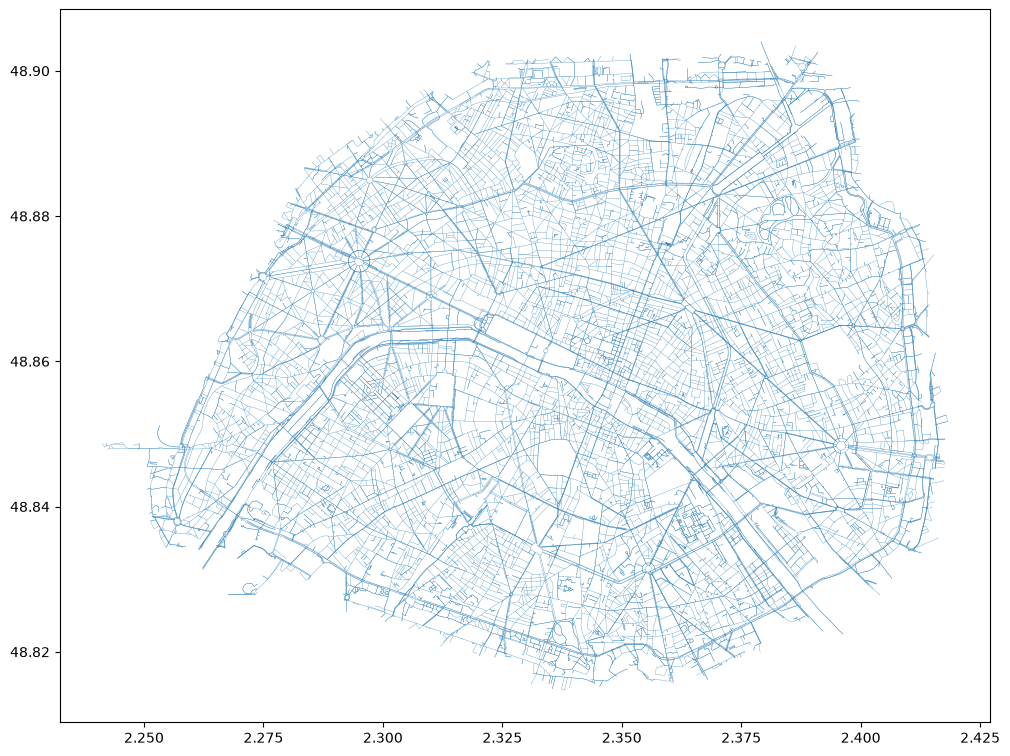
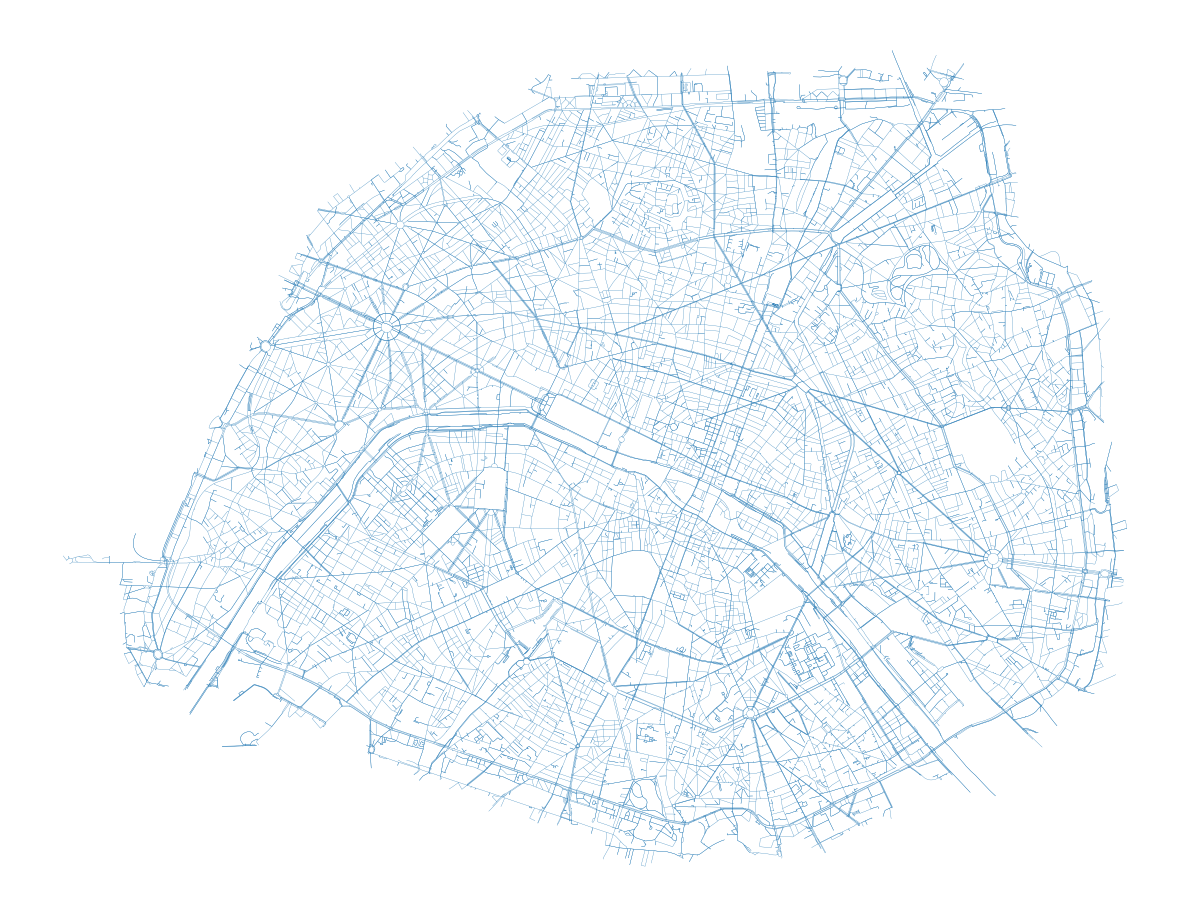
readme plus clair

diff --git a/main.py b/main.py
@@ -4,8 +4,12 @@ from data.connectors import tag_connectors
 
 
 def main():
+    print("Lancement de la pipeline des données")
+    print("Récupérer les voies cyclables de Paris via OSM")
     G = get_voirie()
+    print("Filtrer les petites impasses")
     G_propre = filter_impasses(G)
+    print("Détecter les tronçons de connection de voies")
     G_tagged, nodes_gdf, edges_gdf = tag_connectors(
         G_propre,
         connector_length_m=12,

diff --git a/src/data/voirie.py b/src/data/voirie.py
@@ -21,7 +21,7 @@ def get_poly(place="Paris, France"):
                 paris.geoms,
                 key=lambda g: g.area
             )
-        return paris.geometry.iloc[0]
+        return paris
 
     else:
         return poly.geometry.iloc[0]

diff --git a/presentation/slides.md b/presentation/slides.md
@@ -6,13 +6,31 @@ But : photographier tout Paris en un jour.
 - Itinéraire complet et optimisé (le moins de repassage, le plus de couverture) de Paris sur un jour  
 - Reconstitution de Paris avec les photos récupérées  
 
+-------
 ## L'itinéraire vélo
 
 ### Les données
 
-1. Récupérer les données des voiries de Paris en vélo  
-2. Filtrer les impasses  
-3. Détecter les tronçons de connection de voies  
+#### Récupérer les données des voiries de Paris en vélo  
+
+Voies cyclables de Paris (OSM), extraits avec le package `osmnx`
+![](/hackaton_build_paris_in_a_day/presentation/img/paris_bois.png)
+
+Et on exclu les bois de Boulogne et de Vincennes
+![](/hackaton_build_paris_in_a_day/presentation/img/paris.png)
+
+-------
+
+#### Filtrer les petites impasses  
+2e arrondissement de Paris, filtré des impasses
+![](/hackaton_build_paris_in_a_day/presentation/img/paris2_impasse.png)
+
+-------
+
+#### Détecter les tronçons de connection de voies  
+Tronçons de connection dans le 2e arrondissement de Paris
+![](/hackaton_build_paris_in_a_day/presentation/img/paris2_connecteurs.png)
+
 4. Pondérer les voies : pente, traffic  
 
 ### L'algorithme

diff --git a/README.md b/README.md
@@ -2,15 +2,6 @@
 Projet de hackaton 2026 sur la reconstruction 3D de Paris.
 L'idée est de construire des itinéraires optimaux pour faire le tour complet de Paris en vélo en 1 jour afin de prendre en photos toute la capitale. Ensuite, les photos seront exploitées pour créer une reconstruction de Paris virtuelle.
 
-## Initialisation du projet
-
-```{bash}
-uv init hackaton_build_paris_in_a_day
-cd hackaton_build_paris_in_a_day
-
-uv add osmnx networkx geopandas pandas numpy matplotlib folium
-```
-
 ## Getting started
 ```{bash}
 git clone https://github.com/fab-geocommuns/hackaton_build_paris_in_a_day
@@ -18,8 +9,14 @@ cd hackaton_build_paris_in_a_day
 uv sync
 ```
 
-## Lancer le notebook
+## Lancer un notebook
 
 - Ouvrir la Command Palette avec Ctrl+Shift+P (Windows/Linux) ou Cmd+Shift+P (Mac)  
 - Chercher et cliquer sur >Python: Select Interpreter  
 - Choisir Enter interpreter path… et entrer : /home/onyxia/work/hackaton_build_paris_in_a_day/.venv/bin/python
+
+## Faire tourner la pipeline des données
+
+```
+uv run python main.py
+```